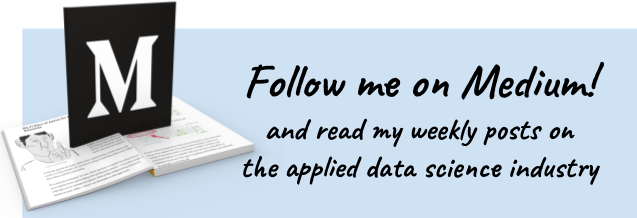
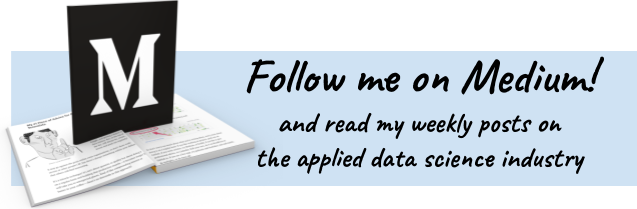
Resizes and smaller image

diff --git a/_includes/header.html b/_includes/header.html
@@ -65,12 +65,12 @@
         </div>
       </div>
 
-      <p>
+       <p style="text-align:center">
           <table><tr><td>
            
            <a href='https://medium.com/search?q=Manuel%20Amunategui' 
              target='_blank'>
-              <img src="https://amunategui.github.io/medium-ad-transparent.png" alt="Medium" title="Me on Medium" style="padding:0px; border:0px; width: 637px; height: 218px" />
+              <img src="https://amunategui.github.io/medium-ad-transparent.png" alt="Medium" title="Me on Medium" style="padding:0px; border:0px; width: 637px; height: 209px" />
             </a>
 
             </td>
